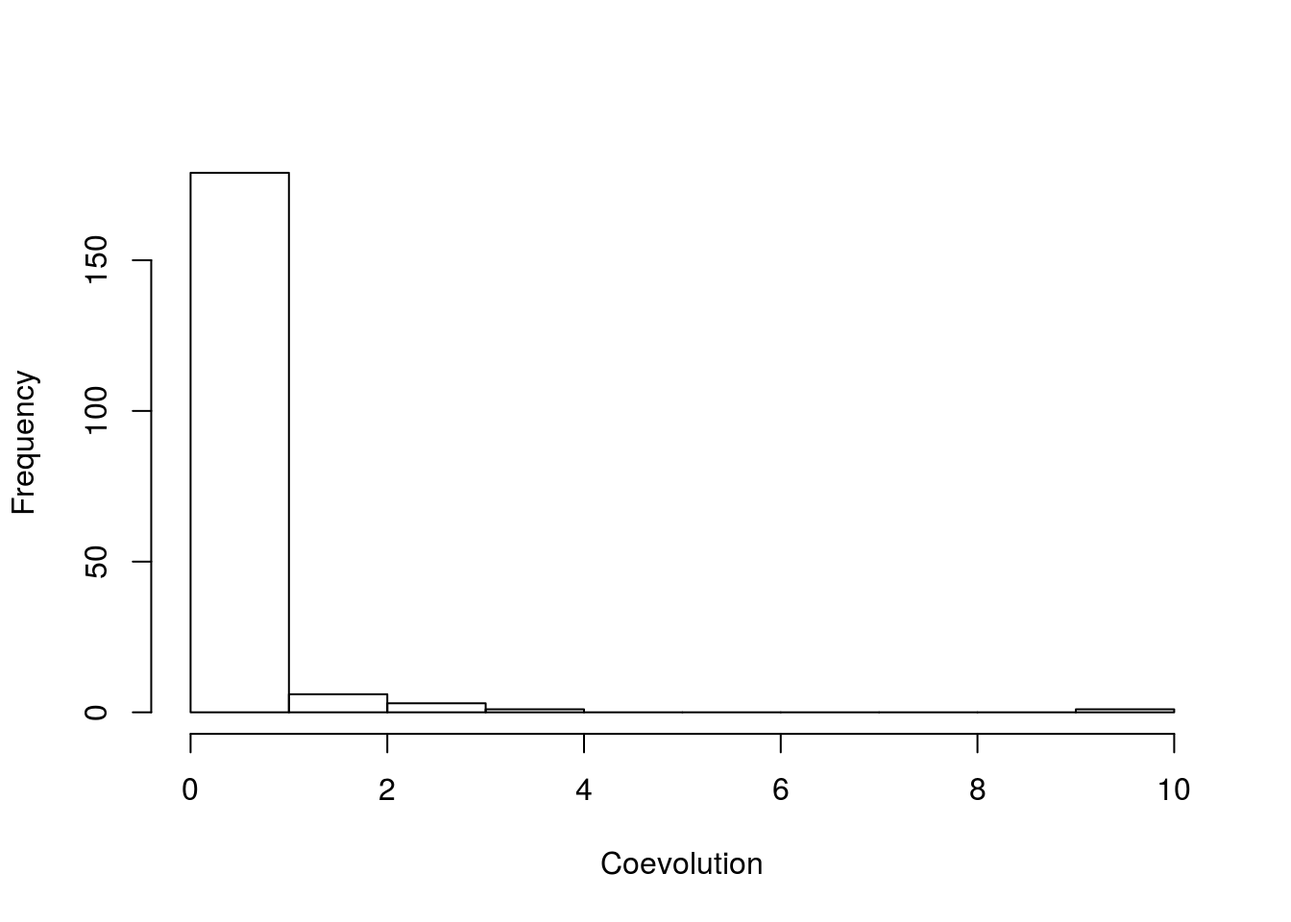
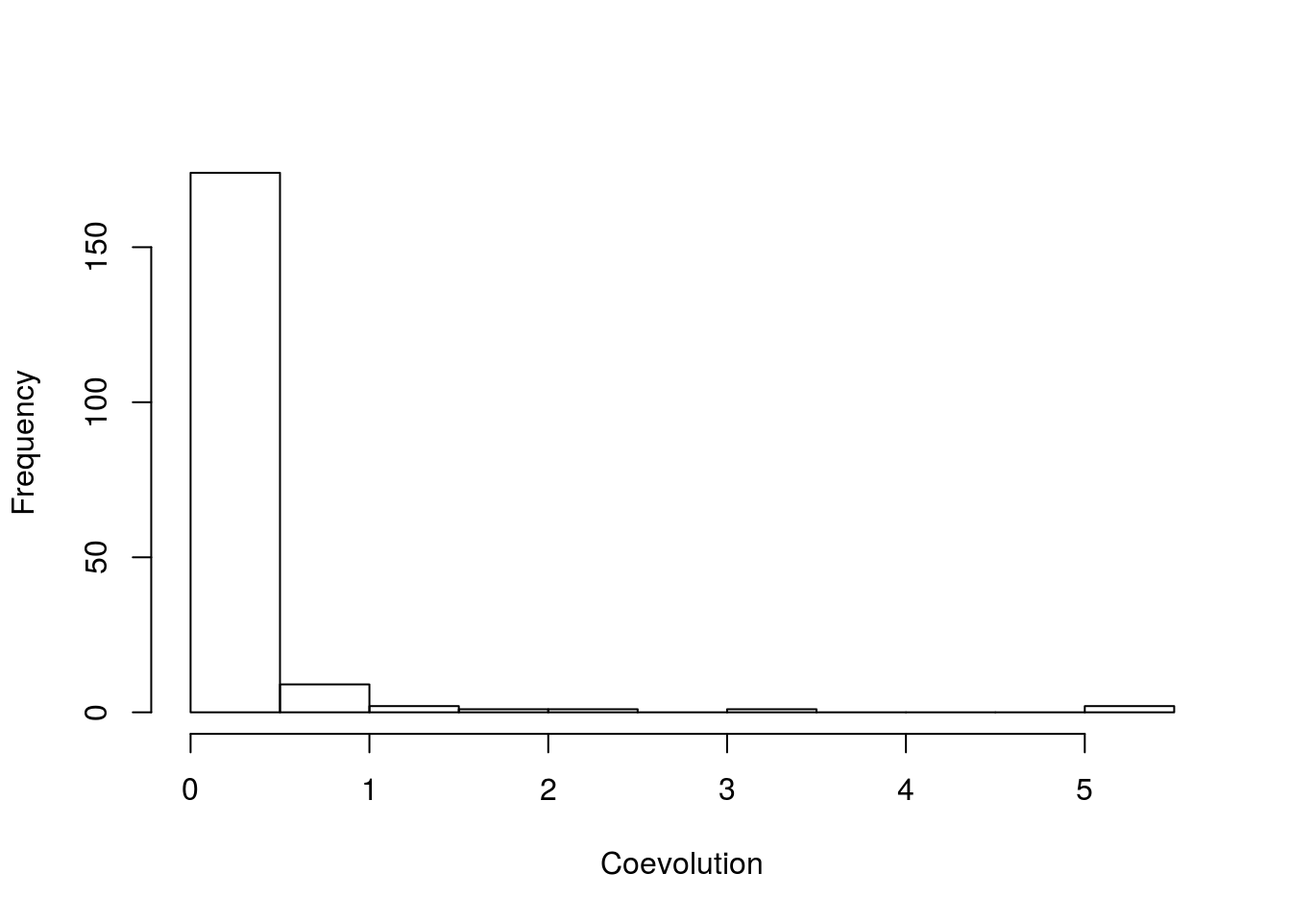
stuff

diff --git a/outline.html b/outline.html
@@ -230,46 +230,50 @@ output:
 <h2>Background</h2>
 <div id="coevolution-and-its-measurement" class="section level3">
 <h3>Coevolution and its measurement</h3>
+<p>Coevolution has been defined as the reciprocal evolutionary response in a pair of populations to their interaction.</p>
+<p>Here I provide the definitions of pairwise and diffuse coevolution I will be using and describe the method I’ve developed to measure pairwise coevolution.</p>
+<ul>
+<li><span class="math inline">\(\mathcal{A}\dots\)</span> abiotic selection gradient</li>
+<li><span class="math inline">\(\mathcal{B}\dots\)</span> biotic selection gradient</li>
+</ul>
+<p>With our model we get <span class="math inline">\(\mathcal{A}_i=A_i(\theta_i-\bar z_i)\)</span> and <span class="math inline">\(\mathcal{B}_{ij}=\delta_{ij}\sqrt{B_{ij}}+B_{ij}(\bar z_j-\bar z_i)\)</span>, <span class="math inline">\(\mathcal{B}_i=\sum_j\mathcal{B}_{ij}\)</span>, and <span class="math inline">\(\beta_i=\mathcal{A}_i+\mathcal{B}_i\)</span>.</p>
+<p>A pair of species are coevolving (with respect to the traits <span class="math inline">\(z_1\)</span> and <span class="math inline">\(z_2\)</span>) if <span class="math inline">\(|\mathcal{B}_{12}|,|\mathcal{B}_{21}|&gt;0\)</span>. In light of this it seems natural to define the strength of coevolution between these species as <span class="math inline">\(C_{12}\equiv G_1G_2|\mathcal{B}_{12}\mathcal{B}_{21}|\)</span>.</p>
+<p>Sprinkle in prev research here.</p>
+<p>In quantitative genetics the breeder’s equation is the primary engine that drives many models of evolution. This equation can be written <span class="math inline">\(\Delta\bar z=G\beta\)</span> where <span class="math inline">\(\Delta\bar z\)</span> represents the change in mean trait of a population over a single generation, <span class="math inline">\(G\)</span> is the additive genetic variance of that trait and <span class="math inline">\(\beta\)</span> is the selection gradient that denotes the magnitude and direction of selection. We can partition the selection gradient into biotic <span class="math inline">\((\mathcal{B})\)</span> and abiotic <span class="math inline">\((\mathcal{A})\)</span> sources to obtain <span class="math inline">\(\beta=\mathcal{B}+\mathcal{A}\)</span>. For a collection of species I write <span class="math inline">\(\mathcal{B}_{ij}\)</span> for the biotic selection gradient imposed on species <span class="math inline">\(i\)</span> by species <span class="math inline">\(j\)</span>. The net biotic selection gradient for species <span class="math inline">\(i\)</span> is <span class="math inline">\(\mathcal{B}_i=\sum_j\mathcal{B}_{ij}\)</span>. By Janzen’s definition species <span class="math inline">\(i\)</span> and <span class="math inline">\(j\)</span> are coevolving iff <span class="math inline">\(|\mathcal{B}_{ij}|,|\mathcal{B}_{ji}|&gt;0\)</span> and <span class="math inline">\(G_i,G_j&gt;0\)</span>. Note that for a pair of coevolving species it is not necessary for <span class="math inline">\(|\beta_i|,|\beta_j|&gt;0\)</span> or for <span class="math inline">\(|\mathcal{B}_i|,|\mathcal{B}_j|&gt;0\)</span> since the net effect of many interactions, both biotic and abiotic, may cancel with each other to produce no overall change in <span class="math inline">\(\bar z_i\)</span> or <span class="math inline">\(\bar z_j\)</span>. Of course, <span class="math inline">\(\Delta\bar z_i=0\)</span> only if a delicate balance is held. By subsequently setting <span class="math inline">\(\mathcal{B}_{ij}\)</span> to zero would result in <span class="math inline">\(\Delta\bar z_i=-G_i\mathcal{B}&#39;_{ij}\)</span> where <span class="math inline">\(\mathcal{B}&#39;_{ij}\)</span> is the previous biotic selection gradient. Hence, the absence of change can be the response to selection implied by coevolution.</p>
+<p>I define the <strong>strength of coevolution</strong> between species <span class="math inline">\(i\)</span> and <span class="math inline">\(j\)</span> as <span class="math inline">\(C_{ij}=G_iG_j|\mathcal{B}_{ij}\mathcal{B}_{ji}|\)</span>.</p>
+<p>I define the <strong>coevolutionary potential</strong> between species <span class="math inline">\(i\)</span> and <span class="math inline">\(j\)</span> as <span class="math inline">\(\varrho_{ij}=B_iB_j\)</span>.</p>
+</div>
+<div id="coevolution-in-the-community-context" class="section level3">
+<h3>Coevolution in the community context</h3>
+<p>In his talk at the “Coevolution and the ecological structure of plant-insect communities” workshop at Ohio State University in 2011, Peter Abrams discusses the expansion of the definition of coevolution to a very broad sense, including situations such as the coevolution of different morphological structures of the same species as well as the coevolution of large swaths of species within a community. Obviously my focus is on the latter, but still, this requires a broadening of the definition of coevolution layed down by Dan Janzen which has had great success in both its clarity and utility (cite nuismer 2010). Janzen’s definition referred specifically to a pair of interacting populations and for this reason I advocate referring to this as pairwise coevolution, allowing the word coevolution itself to refer to the more general notion that Abrams has presented.</p>
 <p>I define an <strong>interaction community</strong> as a graph whose vertices represent species. I require this set of species to be connected in the graph-theoretic sense by edges which represent pairwise interactions. This means that for any two species, we can traverse the community via pairwise interactions to get from one species to any other species. If the graph is disconnected, I refer to this set of species as a composite community.</p>
 <p>A <strong>coevolving community</strong> is a subgraph of an interaction community that is connected in the graph-theoretic sense by coevolving pairs of species.</p>
 <p>I make the assumption that a species is represented by one trait that mediates its interactions with any other species.</p>
 <p>It is important to distinguish between species that have coevolved and species that are currently coevolving. The classic idea of coevolution involves the observation of a pair of traits in two interacting species that appear well matched. Textbook examples include the proboscis length of Darwins moth and the corolla length of Darwins orchid as well as the levels of TTX in the flesh of newts of the genus Taricha and the resistance to TTX in the predatory snakes Thamnophsis sertalis. These are traits that have supposedly evolved over periods of time through the corresponding interaction. What makes these cases especially distinct as putative examples of coevolution is the fact that both traits in each pair are abnormal and thus seem to have simultaneously evolved in response to the interaction. This reciprocal response to selection induced by their interaction is the definition of coevolution provided by Daniel Janzen (citation).</p>
 <p>However, by this definition alone, these classic cases of potentially coevolved traits provide only a small subset of all the coevolution that has occurred and is occurring in nature. By this definition, species are not required to interact for long periods of time to coevolve. Instead they just need to exert reciprocal selection on one another and also respond to that selection. For any pair of interacting species there is certainly some amount of selection being imparted by one onto the other, though the magnitude of this selection may be so trivial it would escape any method of detection ever concieved. Hence, so long as there is sufficient genetic variation underlying the trait in both parties, any currently interacting pairs of species are coevolving by default. If their coevolution is having noticable impacts on the evolutionary trajectories of these species, the situation returns to the colloquial notion of coevolution.</p>
 <p>The point is not that the currently accepted definition of coevolution needs to be modified, but that it implies a much broader set of situations than typically thought of. This observation leads neatly to notions of coevolution in the broader community context where a set of many interacting species are considered at once. Indeed, in light of this discussion the notion of an interaction community collapses to that of a coevolving community. The distinction is more psychological than biological. One notion is focused on who is interacting with whom while the other is primarily concerned with the strength by which their traits coevolve.</p>
-<p>In quantitative genetics the breeder’s equation is the primary engine that drives many models of evolution. This equation can be written <span class="math inline">\(\Delta\bar z=G\beta\)</span> where <span class="math inline">\(\Delta\bar z\)</span> represents the change in mean trait of a population over a single generation, <span class="math inline">\(G\)</span> is the additive genetic variance of that trait and <span class="math inline">\(\beta\)</span> is the selection gradient that denotes the magnitude and direction of selection. We can partition the selection gradient into biotic <span class="math inline">\((\mathcal{B})\)</span> and abiotic <span class="math inline">\((\mathcal{A})\)</span> sources to obtain <span class="math inline">\(\beta=\mathcal{B}+\mathcal{A}\)</span>. For a collection of species I write <span class="math inline">\(\mathcal{B}_{ij}\)</span> for the biotic selection gradient imposed on species <span class="math inline">\(i\)</span> by species <span class="math inline">\(j\)</span>. The net biotic selection gradient for species <span class="math inline">\(i\)</span> is <span class="math inline">\(\mathcal{B}_i=\sum_j\mathcal{B}_{ij}\)</span>. By Janzen’s definition species <span class="math inline">\(i\)</span> and <span class="math inline">\(j\)</span> are coevolving iff <span class="math inline">\(|\mathcal{B}_{ij}|,|\mathcal{B}_{ji}|&gt;0\)</span> and <span class="math inline">\(G_i,G_j&gt;0\)</span>. Note that for a pair of coevolving species it is not necessary for <span class="math inline">\(|\beta_i|,|\beta_j|&gt;0\)</span> or for <span class="math inline">\(|\mathcal{B}_i|,|\mathcal{B}_j|&gt;0\)</span> since the net effect of many interactions, both biotic and abiotic, may cancel with each other to produce no overall change in <span class="math inline">\(\bar z_i\)</span> or <span class="math inline">\(\bar z_j\)</span>. Of course, <span class="math inline">\(\Delta\bar z_i=0\)</span> only if a delicate balance is held. By subsequently setting <span class="math inline">\(\mathcal{B}_{ij}\)</span> to zero would result in <span class="math inline">\(\Delta\bar z_i=-G_i\mathcal{B}&#39;_{ij}\)</span> where <span class="math inline">\(\mathcal{B}&#39;_{ij}\)</span> is the previous biotic selection gradient. Hence, the absence of change can be the response to selection implied by coevolution.</p>
-<p>Returning to the point being made above, for any pair of interacing species <span class="math inline">\((i,j)\)</span> the probaility that either <span class="math inline">\(\mathcal{B}_{ij}\)</span> or <span class="math inline">\(\mathcal{B}_{ji}\)</span> are equal to zero is zero. Using the same argument for the magnitudes of <span class="math inline">\(G_i\)</span> and <span class="math inline">\(G_j\)</span>, then we will always find at least some <span class="math inline">\(\epsilon\)</span>-amount of coevolution for any given pair of interacting species. This is fine; it should be understood that coevolution is continuous in value, not binary. Also, the triviality of this notion of coevolution does not remove its relevance, but emphasizes the need to measure it. I define the <strong>strength of coevolution</strong> between species <span class="math inline">\(i\)</span> and <span class="math inline">\(j\)</span> as <span class="math inline">\(C_{ij}=G_iG_j|\mathcal{B}_{ij}\mathcal{B}_{ji}|\)</span>. The distribution of this metric in a community can provide important information detailing the structure of the community. From this metric we can construct other measurements that provide insight into specific coevolutionary structures of communities. For example suppose species <span class="math inline">\(i\)</span> interacts with the set <span class="math inline">\(I_i\)</span> of species and <span class="math inline">\(j\)</span> interacts with <span class="math inline">\(I_j\)</span>. Set <span class="math inline">\(\gamma_i={\mathrm{argmax}}_{l\in I_i}\{C_{il}\}\)</span>. If <span class="math inline">\(\gamma_i=j\)</span> and <span class="math inline">\(\gamma_j=i\)</span> then coevolution is strongest between species <span class="math inline">\(i\)</span> and <span class="math inline">\(j\)</span> than between <span class="math inline">\(i\)</span> and any of its partners other than <span class="math inline">\(j\)</span> and likewise for <span class="math inline">\(j\)</span>. As this particular strength of coevolution increases above the rest, a pairwise coevolutionary situation emerges.</p>
-<p>Once again, however, there is no threshold from which the coevolutionary relationship between this pair of species immediately transitions to pairwise. Setting <span class="math inline">\(\lambda_i={\mathrm{argmax}}_{l\in I_i\setminus\{\gamma_i\}}\{C_{il}\}\)</span>, one potential measure of pairwise coevolution is <span class="math inline">\(C^2_{ij}-C_{i\lambda_i}C_{j\lambda_j}\)</span>. But this would only make sense when <span class="math inline">\(\gamma_i=j\)</span> and <span class="math inline">\(\gamma_j=i\)</span>. Instead we need a notion that describes the degree to which a species is uniquely coevolving with another species. I call this <strong>evolutionary affinity</strong> and for species <span class="math inline">\(i\)</span> it can be captured by <span class="math inline">\(\phi_i\equiv C^2_{i\gamma_i}-C_{i\lambda_i}C_{\gamma_i\lambda_{\gamma_i}}\)</span> (note that when <span class="math inline">\(\phi_i=\phi_{\gamma_i}\)</span> this corresponds to a measure of pairwise coevolution since it implies that <span class="math inline">\(\gamma_i=j\)</span> and <span class="math inline">\(\gamma_j=i\)</span>). The subset of coevolving pairs <span class="math inline">\((i,j)\)</span> for which <span class="math inline">\(\gamma_i=j\)</span> and <span class="math inline">\(\gamma_j=i\)</span> are an important subset of interactions for if there are any pairs that are truly undergoing pairwise coevolution, they will be in this set. For theses cases I’ll write <span class="math inline">\(\phi_{ij}\)</span> instead of <span class="math inline">\(\phi_i\)</span> or <span class="math inline">\(\phi_j\)</span> to emphasize the pairwise relationship between species <span class="math inline">\(i\)</span> and <span class="math inline">\(j\)</span>. Denoting <span class="math inline">\(\Theta\)</span> as the set of all pairs of coevolving species and <span class="math inline">\(\Pi\subset\Theta\)</span> as the set of potentially pairwise coevolving pairs (those for which <span class="math inline">\(\phi_i=\phi_j=\phi_{ij}\)</span>) we can provide a cursory definition of the <strong>pairwisivity</strong> of a community as</p>
-<p><span class="math display">\[\pi=\frac{|\Pi|}{|\Theta|}\sum_{(i,j)\in\Pi}\phi_{ij}.\]</span></p>
-<p>This quantity is interesting for it allows us to investigate the distinction between diffuse coevolution and pairwise coevolution. The case of diffuse coevolution is best described as a coevolving community with <span class="math inline">\(\pi=0\)</span>. However, if there’s any variability in the strength of coevolution across the community, the pair with the greatest strength of coevolution will be sure to be an element of <span class="math inline">\(\Pi\)</span>. Hence, <span class="math inline">\(\pi&gt;0\)</span> a.s. As <span class="math inline">\(\pi\)</span> increases the community tends to be more populated with pairwise coevolutionary relationships.</p>
-<p>Aside from whether or not species interact, we curious to know as to how often they interact. Given that an individual is in the midst of an interaction, we might draw the identity of the species it is interacting with from a distribution. Then it makes sense to quantify the rates of interaction by convex combinations of all members of the community.</p>
-</div>
-<div id="three-coevolving-communities" class="section level3">
-<h3>Three Coevolving Communities</h3>
-<p>Assumption: All members of the community interact through the same trait for each species. That is, all the interactions of a given species are mediated through the same trait of that species.</p>
-<div id="heres-an-example-of-a-coevolving-community-with-high-parwisivity." class="section level4">
-<h4>Here’s an example of a coevolving community with high parwisivity.</h4>
-<p><img src="outline_files/figure-html/unnamed-chunk-2-1.png" width="672" /><img src="outline_files/figure-html/unnamed-chunk-2-2.png" width="672" /></p>
-<p>In this case we get <span class="math inline">\(\pi=\)</span> 0.4374337.</p>
-</div>
-<div id="here-is-a-coevolving-community-that-is-completely-diffuse." class="section level4">
-<h4>Here is a coevolving community that is completely diffuse.</h4>
-<p><img src="outline_files/figure-html/unnamed-chunk-4-1.png" width="672" /></p>
-<p>In this case <span class="math inline">\(\pi=0\)</span>.</p>
-</div>
-<div id="here-is-a-coevolving-community-that-is-still-more-diffuse-but-has-some-pairwisivity" class="section level4">
-<h4>Here is a coevolving community that is still more diffuse but has some pairwisivity</h4>
-<p><img src="outline_files/figure-html/unnamed-chunk-6-1.png" width="672" /><img src="outline_files/figure-html/unnamed-chunk-6-2.png" width="672" /></p>
-<p>In this case <span class="math inline">\(\pi=\)</span> 0.0747169.</p>
+<p>Returning to the point being made above, for any pair of interacing species <span class="math inline">\((i,j)\)</span> the probaility that either <span class="math inline">\(\mathcal{B}_{ij}\)</span> or <span class="math inline">\(\mathcal{B}_{ji}\)</span> are equal to zero is zero. Using the same argument for the magnitudes of <span class="math inline">\(G_i\)</span> and <span class="math inline">\(G_j\)</span>, then we will always find at least some <span class="math inline">\(\epsilon\)</span>-amount of coevolution for any given pair of interacting species. This is fine; it should be understood that coevolution is continuous in value, not binary. Also, the triviality of this notion of coevolution does not remove its relevance, but emphasizes the need to measure its strength (<span class="math inline">\(C_{ij}\)</span>) and significance. The distribution of <span class="math inline">\(C_{ij}\)</span> in a community can provide important information detailing the structure of the community and its potential trajectory.</p>
+<p>Using <span class="math inline">\(C_{ij}\)</span> we can construct other measurements that provide insight into specific coevolutionary structures of communities. For example suppose species <span class="math inline">\(i\)</span> interacts with the set <span class="math inline">\(I_i\)</span> of species and <span class="math inline">\(j\)</span> interacts with <span class="math inline">\(I_j\)</span>. Set <span class="math inline">\(\gamma_i={\mathrm{argmax}}_{l\in I_i}\{C_{il}\}\)</span>. If <span class="math inline">\(\gamma_i=j\)</span> and <span class="math inline">\(\gamma_j=i\)</span> then coevolution is strongest between species <span class="math inline">\(i\)</span> and <span class="math inline">\(j\)</span> than between <span class="math inline">\(i\)</span> and any of its partners other than <span class="math inline">\(j\)</span> and likewise for <span class="math inline">\(j\)</span>. As this particular strength of coevolution increases above the rest, what we think of as a pairwise coevolutionary situation emerges. However, I will go a step further and define pairwise coevolution as the situation in which <span class="math inline">\(\gamma_i=j\)</span> and <span class="math inline">\(\gamma_j=i\)</span>. Whether or not pairwise coevolution is significant, that is, whether it can be detected with some method is independent of whether or not it exists. So we can have species that are technically undergoing pairwise coevolution but the intensity of pairwise coevolution may be negligible. Setting <span class="math inline">\(\lambda_i={\mathrm{argmax}}_{l\in I_i\setminus\{\gamma_i\}}\{C_{il}\}\)</span>, one potential measure of pairwise coevolution is <span class="math inline">\(C^2_{ij}-C_{i\lambda_i}C_{j\lambda_j}\)</span>. But this would only make sense when <span class="math inline">\(\gamma_i=j\)</span> and <span class="math inline">\(\gamma_j=i\)</span>. Instead we need a notion that describes the degree to which a species is uniquely coevolving with another species. I call this <strong>coevolutionary affinity</strong> and for species <span class="math inline">\(i\)</span> it can be captured by <span class="math inline">\(\alpha_i\equiv C^2_{i\gamma_i}-C_{i\lambda_i}C_{\gamma_i\lambda_{\gamma_i}}\)</span> (note that when <span class="math inline">\(\alpha_i=\alpha_{\gamma_i}\)</span> this corresponds to a measure of pairwise coevolution since it implies that <span class="math inline">\(\gamma_i=j\)</span> and <span class="math inline">\(\gamma_j=i\)</span>). The subset of coevolving pairs <span class="math inline">\((i,j)\)</span> for which <span class="math inline">\(\gamma_i=j\)</span> and <span class="math inline">\(\gamma_j=i\)</span> are an important subset of interactions for it contains precisely those pairs that are undergoing pairwise coevolution. For theses cases I’ll write <span class="math inline">\(\alpha_{ij}\)</span> instead of <span class="math inline">\(\alpha_i\)</span> or <span class="math inline">\(\alpha_j\)</span> to emphasize the pairwise relationship between species <span class="math inline">\(i\)</span> and <span class="math inline">\(j\)</span>. Denoting <span class="math inline">\(\Theta\)</span> as the set of all pairs of coevolving species and <span class="math inline">\(\Pi\subset\Theta\)</span> as the set of interactions undergoing pairwise coevolution (those for which <span class="math inline">\(\alpha_i=\alpha_j=\alpha_{ij}\)</span>) we can provide a cursory definition of the <strong>pairwisivity</strong> of a community as</p>
+<p><span class="math display">\[\pi=\frac{|\Pi|}{|\Theta|}\sum_{(i,j)\in\Pi}\alpha_{ij}.\]</span></p>
+<p>This quantity is interesting for it allows us to investigate the distinction between diffuse coevolution and pairwise coevolution in the community context. When <span class="math inline">\(\pi=0\)</span> we have what I call an absolutely diffuse community. However, if there’s any variability in the strength of coevolution across the community, the pair with the greatest strength of coevolution will be sure to be an element of <span class="math inline">\(\Pi\)</span>. Hence, <span class="math inline">\(\pi&gt;0\)</span> a.s. As <span class="math inline">\(\pi\)</span> increases the community tends to be more populated with pairwise coevolutionary relationships. For example, the following graph represents a community with high pairwisivity.</p>
+<p><img src="outline_files/figure-html/unnamed-chunk-2-1.png" width="576" style="display: block; margin: auto;" /></p>
+<p>The distribution of coevolution in this community is captured by the following histogram.</p>
+<p><img src="outline_files/figure-html/unnamed-chunk-3-1.png" width="576" style="display: block; margin: auto;" /></p>
+<p>In this case we get <span class="math inline">\({\mathbb{E}}(C)=\)</span> 0.1937917, <span class="math inline">\({\mathrm{Var}}(C)=\)</span> 0.2762319, and <span class="math inline">\(\pi=\)</span> 1.3204587. At the opposite end of the spectrum, the following community is completely diffuse.</p>
+<p><img src="outline_files/figure-html/unnamed-chunk-5-1.png" width="576" style="display: block; margin: auto;" /></p>
+<p>For this community we have <span class="math inline">\({\mathbb{E}}(C)=\)</span> 0.25, <span class="math inline">\({\mathrm{Var}}(C)=\)</span> 0, and <span class="math inline">\(\pi=\)</span> 0. Lastly is an example of a community that has a moderate level of pairwisivity but would probably still be considered diffuse.</p>
+<p><img src="outline_files/figure-html/unnamed-chunk-7-1.png" width="576" style="display: block; margin: auto;" /><img src="outline_files/figure-html/unnamed-chunk-7-2.png" width="576" style="display: block; margin: auto;" /></p>
+<p>For this community we have <span class="math inline">\({\mathbb{E}}(C)=\)</span> 0.2477808, <span class="math inline">\({\mathrm{Var}}(C)=\)</span> 0.0160922, and <span class="math inline">\(\pi=\)</span> 0.0517472.</p>
 <!--
 
-The intensity of pairwisivity of a community is a distinct notion from the degree distribution of the community which is more in line with the notion of specialization. Combining the degree of species in a community with the strength by which they coevolve with their partners leads to a notion I will call the __specificity__ ($\psi$) of the community. The specificity of a species is $\psi_i=\sum_{j=1}^d\phi_{ij}$. There can be a large number of specialists in a community and yet still have $\iota=0$ if $\phi_i\neq\phi_j$ for all $i,j$. So specialization is 
+The intensity of pairwisivity of a community is a distinct notion from the degree distribution of the community which is more in line with the notion of specialization. Combining the degree of species in a community with the strength by which they coevolve with their partners leads to a notion I will call the __specificity__ ($\psi$) of the community. The specificity of a species is $\psi_i=\sum_{j=1}^d\alpha_{ij}$. There can be a large number of specialists in a community and yet still have $\iota=0$ if $\alpha_i\neq\alpha_j$ for all $i,j$. So specialization is 
 
 Affinity matrix: $[\alpha_{ij}]\equiv\left[\frac{C_{ij}}{\sum_j C_{ij}}\right]$
 
 Coevolutionary generality: $-\sum_j\alpha_{ij}\ln(\alpha_{ij})$
 
 -->
-<p>Sprinkle in prev research here.</p>
+<p>Aside from whether or not species interact, we curious to know as to how often they interact. Given that an individual is in the midst of an interaction, we might draw the identity of the species it is interacting with from a distribution. Then it makes sense to quantify the rates of interaction by convex combinations of all members of the community.</p>
 <!--
 
 #### Inputs/Outputs formalism
@@ -278,6 +282,30 @@ One missing ingredient is the reason why certain species interact and what deter
 
 -->
 </div>
+<div id="the-structure-and-categorization-of-communities" class="section level3">
+<h3>The structure and categorization of communities</h3>
+<p>Here I describe ways of categorizing communities and refer to Shipley when discussing my focus on traits and functions.</p>
+<div id="interaction-types" class="section level4">
+<h4>Interaction types</h4>
+</div>
+<div id="trophic-structure" class="section level4">
+<h4>Trophic structure</h4>
+</div>
+<div id="spatial-structure" class="section level4">
+<h4>Spatial structure</h4>
+</div>
+</div>
+<div id="summary" class="section level3">
+<h3>Summary</h3>
+<ul>
+<li>Coevolution: The simultaneous response to reciprocal biotic selection in a set of interacting species that are connected in the graph-theoretic sense.</li>
+<li>Diffuse coevolution: When selection strengths among a set of coevolving species are of the same order.</li>
+<li>Pairwise coevolution: When the selection strengths between a pair of coevolving species exceed the order of selection strengths exerted by peripheral species.
+<ul>
+<li>Peripheral species: Non-focal coevolving species.</li>
+</ul></li>
+<li>Mixed coevolution: When coevolution is neither diffuse nor pairwise.</li>
+</ul>
 </div>
 </div>
 <div id="research-questions" class="section level2">
@@ -292,46 +320,19 @@ One missing ingredient is the reason why certain species interact and what deter
 <div id="specific-aims-and-methods" class="section level2">
 <h2>Specific Aims and Methods</h2>
 <p>Here I describe what I’m about to describe.</p>
-<div id="coevolution-and-its-measurement-1" class="section level3">
-<h3>Coevolution and its measurement</h3>
-<p>Here I provide the definitions of pairwise and diffuse coevolution I will be using and describe the method I’ve developed to measure pairwise coevolution.</p>
-<ul>
-<li><span class="math inline">\(\mathcal{A}\dots\)</span> abiotic selection gradient</li>
-<li><span class="math inline">\(\mathcal{B}\dots\)</span> biotic selection gradient</li>
-</ul>
-<p>With our model we get <span class="math inline">\(\mathcal{A}_i=A_i(\theta_i-\bar z_i)\)</span> and <span class="math inline">\(\mathcal{B}_{ij}=\delta_{ij}\sqrt{B_{ij}}+B_{ij}(\bar z_j-\bar z_i)\)</span>, <span class="math inline">\(\mathcal{B}_i=\sum_j\mathcal{B}_{ij}\)</span>, and <span class="math inline">\(\beta_i=\mathcal{A}_i+\mathcal{B}_i\)</span>.</p>
-<p>A pair of species are coevolving (with respect to the traits <span class="math inline">\(z_1\)</span> and <span class="math inline">\(z_2\)</span>) if <span class="math inline">\(|\mathcal{B}_{12}|,|\mathcal{B}_{21}|&gt;0\)</span>. In light of this it seems natural to define the strength of coevolution between these species as <span class="math inline">\(C_{12}\equiv G_1G_2|\mathcal{B}_{12}\mathcal{B}_{21}|\)</span>.</p>
-<p><span class="math inline">\({\bf{Claim}}:\)</span></p>
-<p><span class="math display">\[C_{12}=C_{21}\]</span></p>
-<p><span class="math inline">\({\bf{Proof}}:\)</span></p>
-<p><span class="math display">\[C_{21}=G_2G_1|\mathcal{B}_{21}\mathcal{B}_{12}|=G_1G_2|\mathcal{B}_{12}\mathcal{B}_{21}|=C_{12} \ \square\]</span></p>
-<p>Distinguish between the traditional idea of coevolution where traits have changed together for long periods of time and the idea I’m focusing on, the existence of significant reciprocal selection (and the response :: we could start by assuming constant <span class="math inline">\(G\)</span> so that there’s always a response) even if traits don’t change together.</p>
-<ul>
-<li>Coevolution: The simultaneous response to reciprocal biotic selection in a set of interacting species that are connected in the graph-theoretic sense.</li>
-<li>Diffuse coevolution: When selection strengths among a set of coevolving species are of the same order.</li>
-<li>Pairwise coevolution: When the selection strengths between a pair of coevolving species exceed the order of selection strengths exerted by peripheral species.
-<ul>
-<li>Peripheral species: Non-focal coevolving species.</li>
-</ul></li>
-<li>Mixed coevolution: When coevolution is neither diffuse nor pairwise.</li>
-</ul>
-</div>
-<div id="the-structure-and-categorization-of-communities" class="section level3">
-<h3>The structure and categorization of communities</h3>
-<p>Here I describe ways of categorizing communities and refer to Shipley when discussing my focus on traits and functions.</p>
-</div>
-<div id="hypotheses" class="section level3">
-<h3>Hypotheses</h3>
-<div id="hypothesis-1-pairwise-coevolution-is-common-in-young-and-disturbed-communities-but-is-washed-away-by-diffuse-coevolution-in-mature-communities." class="section level4">
-<h4><strong>Hypothesis 1: Pairwise coevolution is common in young and disturbed communities, but is washed away by diffuse coevolution in mature communities.</strong></h4>
-<p>Species don’t need to interact for long periods of time to coevolve, they just need to exert significant reciprocal selection on one another (and respond to that selection). I hypothesize that in young and freshly disturbed communities there will be greater variation in the strengths of selection being imposed through biotic interactions than through similar interactions taking place in older communties, where the frenzy of niche packing has settled down.</p>
-<p>NOTE: Hypothesis 4 is neatly answered through this investigation. So include it within this section instead of breaking it out into it’s own section.</p>
+<div id="aim-1-determine-the-relationship-between-the-maturity-of-a-community-and-the-pairwisivity-of-the-community." class="section level4">
+<h4><strong>Aim 1: Determine the relationship between the maturity of a community and the pairwisivity of the community.</strong></h4>
+<p>Species don’t need to interact for long periods of time to coevolve, they just need to exert significant reciprocal selection on one another (and respond to that selection). I hypothesize that in young and freshly disturbed communities there will be greater variation in the strengths of selection being imposed through biotic interactions and therefore a higher pairwisivity than through similar interactions taking place in older communties, where the frenzy of niche packing has settled down.</p>
 </div>
 <div id="method" class="section level4">
 <h4>Method</h4>
-<p>I plan to develop a model that tracks the distribution of pairwise coevolution throughout a community. I’ll assume the community is initiated at random and analyze the evolution of this distribution. By my defintion of diffuse coevolution, the community transitions from pairwise to diffuse if the distribution initially has a large variance that narrows over time.</p>
-<p>The for a community that has been freshly disturbed and time <span class="math inline">\(t=0\)</span>, we might expect to see pairwisivity (<span class="math inline">\(\pi\)</span>) take the following trajectory.</p>
-<p><img src="outline_files/figure-html/unnamed-chunk-8-1.png" width="672" /></p>
+<p>I will start with the well developed theory for pairwise coevolution to derive the dynamics of the pairwisivity of the community. Since in this theory selection gradients are determined by trait differences, tracking the distribution of traits in the community will be a major component of this approach. The other major component will be based on the degree distribution. If the degree of each species (the number of other species it interacts with) tends to be low, then there is potential for high pairwisivity. Since calculating <span class="math inline">\(\pi\)</span> will not likely be analytically tractable, we will instead take a statistical approach by considering the potential values <span class="math inline">\(\pi\)</span> can take given a set of traits for the community and a topology of the interactions.</p>
+<p>The for a community that has been freshly disturbed and time <span class="math inline">\(t=0\)</span>, we might expect to see the expected pairwisivity (<span class="math inline">\(\bar \pi\)</span>) take the following trajectory.</p>
+<p><img src="outline_files/figure-html/unnamed-chunk-9-1.png" width="576" style="display: block; margin: auto;" /></p>
+</div>
+<div id="aim-2-determine-the-relationship-between-the-community-type-and-the-degree-of-specialization-in-the-community." class="section level4">
+<h4><strong>Aim 2: Determine the relationship between the community type and the degree of specialization in the community.</strong></h4>
+<p>This aim is closely related to the above aim but has several distinct qualities. Firstly, in the above aim it is thought that pattern will hold across community types. Here we explicitly focus on different types of communities defined by the kinds of interactions present. Secondly, specialization and pairwise coevolution may appear to be similar concepts, but they are in fact quite distinct. For example, members of a community can be highly specialized but pairwise coevolution absent if there is no variance in</p>
 </div>
 <div id="hypothesis-2-communities-climax-quicker-with-coevolution-present." class="section level4">
 <h4><strong>Hypothesis 2: Communities climax quicker with coevolution present.</strong></h4>
@@ -343,9 +344,9 @@ One missing ingredient is the reason why certain species interact and what deter
 <h4>Method</h4>
 <p>I plan to extract some number measuring how far along the community has evolved towards its climax community. One potential value related to this transition is NPP, though some notion of entropy may be involved as well. Studying the asymptotic nature of this value, I can compare the rates at which this value converges or increases when coevolution is present versus when coevolution is not present.</p>
 <p>Without coevolution:</p>
-<p><img src="outline_files/figure-html/unnamed-chunk-10-1.png" width="672" /></p>
+<p><img src="outline_files/figure-html/unnamed-chunk-11-1.png" width="576" style="display: block; margin: auto;" /></p>
 <p>With coevolution:</p>
-<p><img src="outline_files/figure-html/unnamed-chunk-12-1.png" width="672" /></p>
+<p><img src="outline_files/figure-html/unnamed-chunk-13-1.png" width="576" style="display: block; margin: auto;" /></p>
 <p>Biomass tends to increase over time as communities age. We can use mean fitness of the community to track this quantity.</p>
 </div>
 <div id="hypothesis-3-invasions-are-more-successful-in-the-presence-of-coevolution-for-mutualistic-communities-but-less-successful-in-the-presence-of-coevolution-for-competitive-communities." class="section level4">
@@ -364,7 +365,6 @@ One missing ingredient is the reason why certain species interact and what deter
 <h4>Method</h4>
 <p>Use the inputs/outputs formalism to derive metrics of specialization/generalization and a distribution of these quantities across the community.</p>
 <p>Find a distribution of complexity.</p>
-</div>
 </div>
 </div>
 <div id="significance-of-proposed-research" class="section level2">
